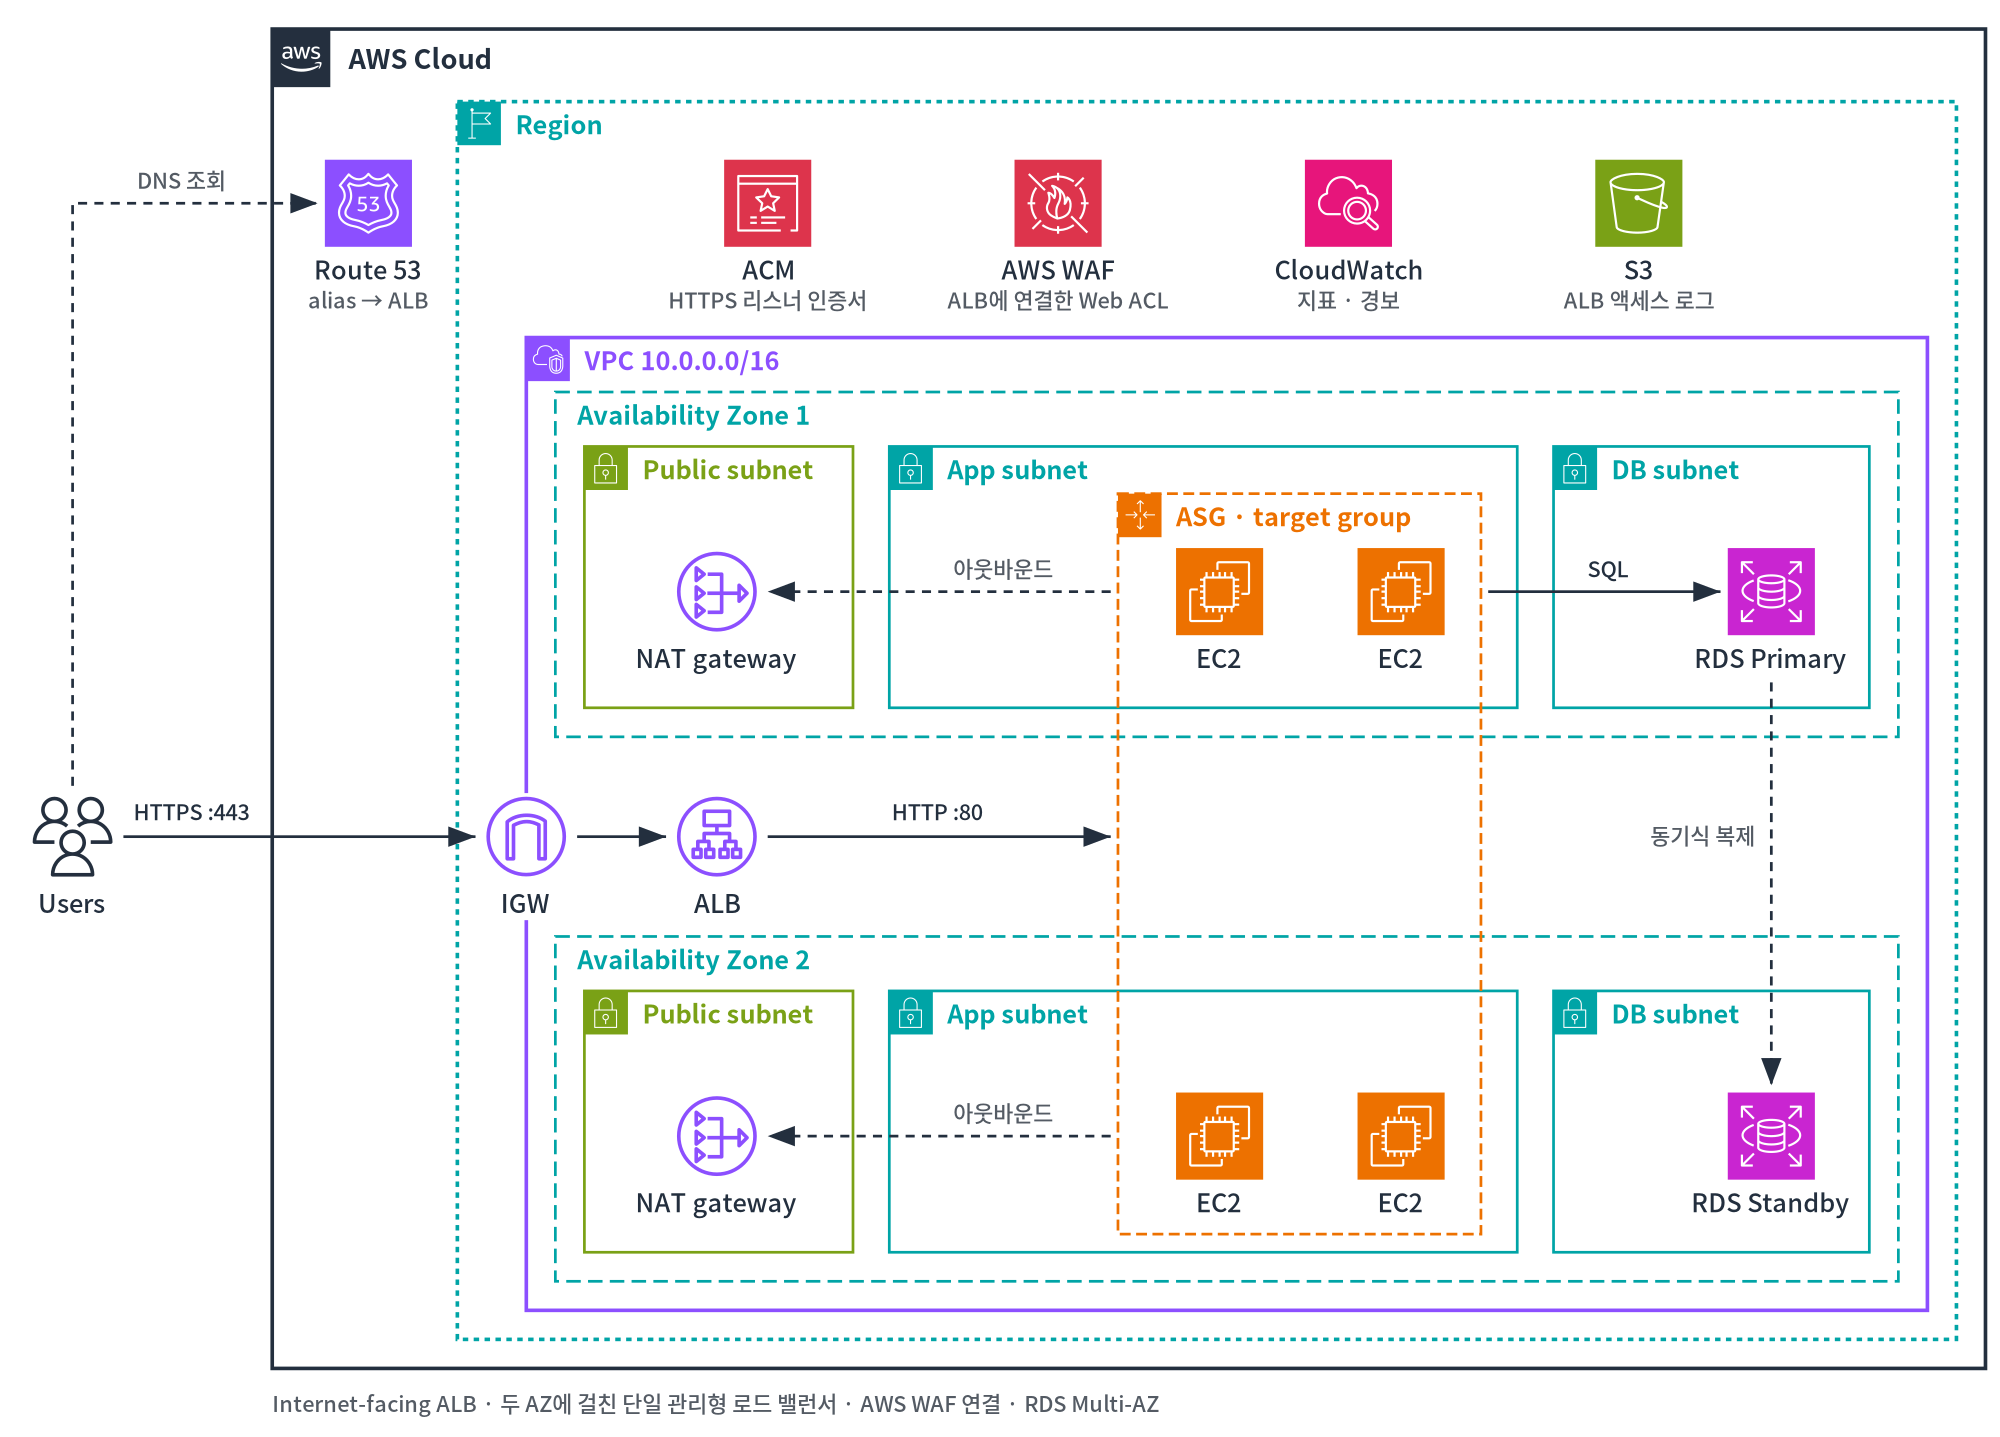
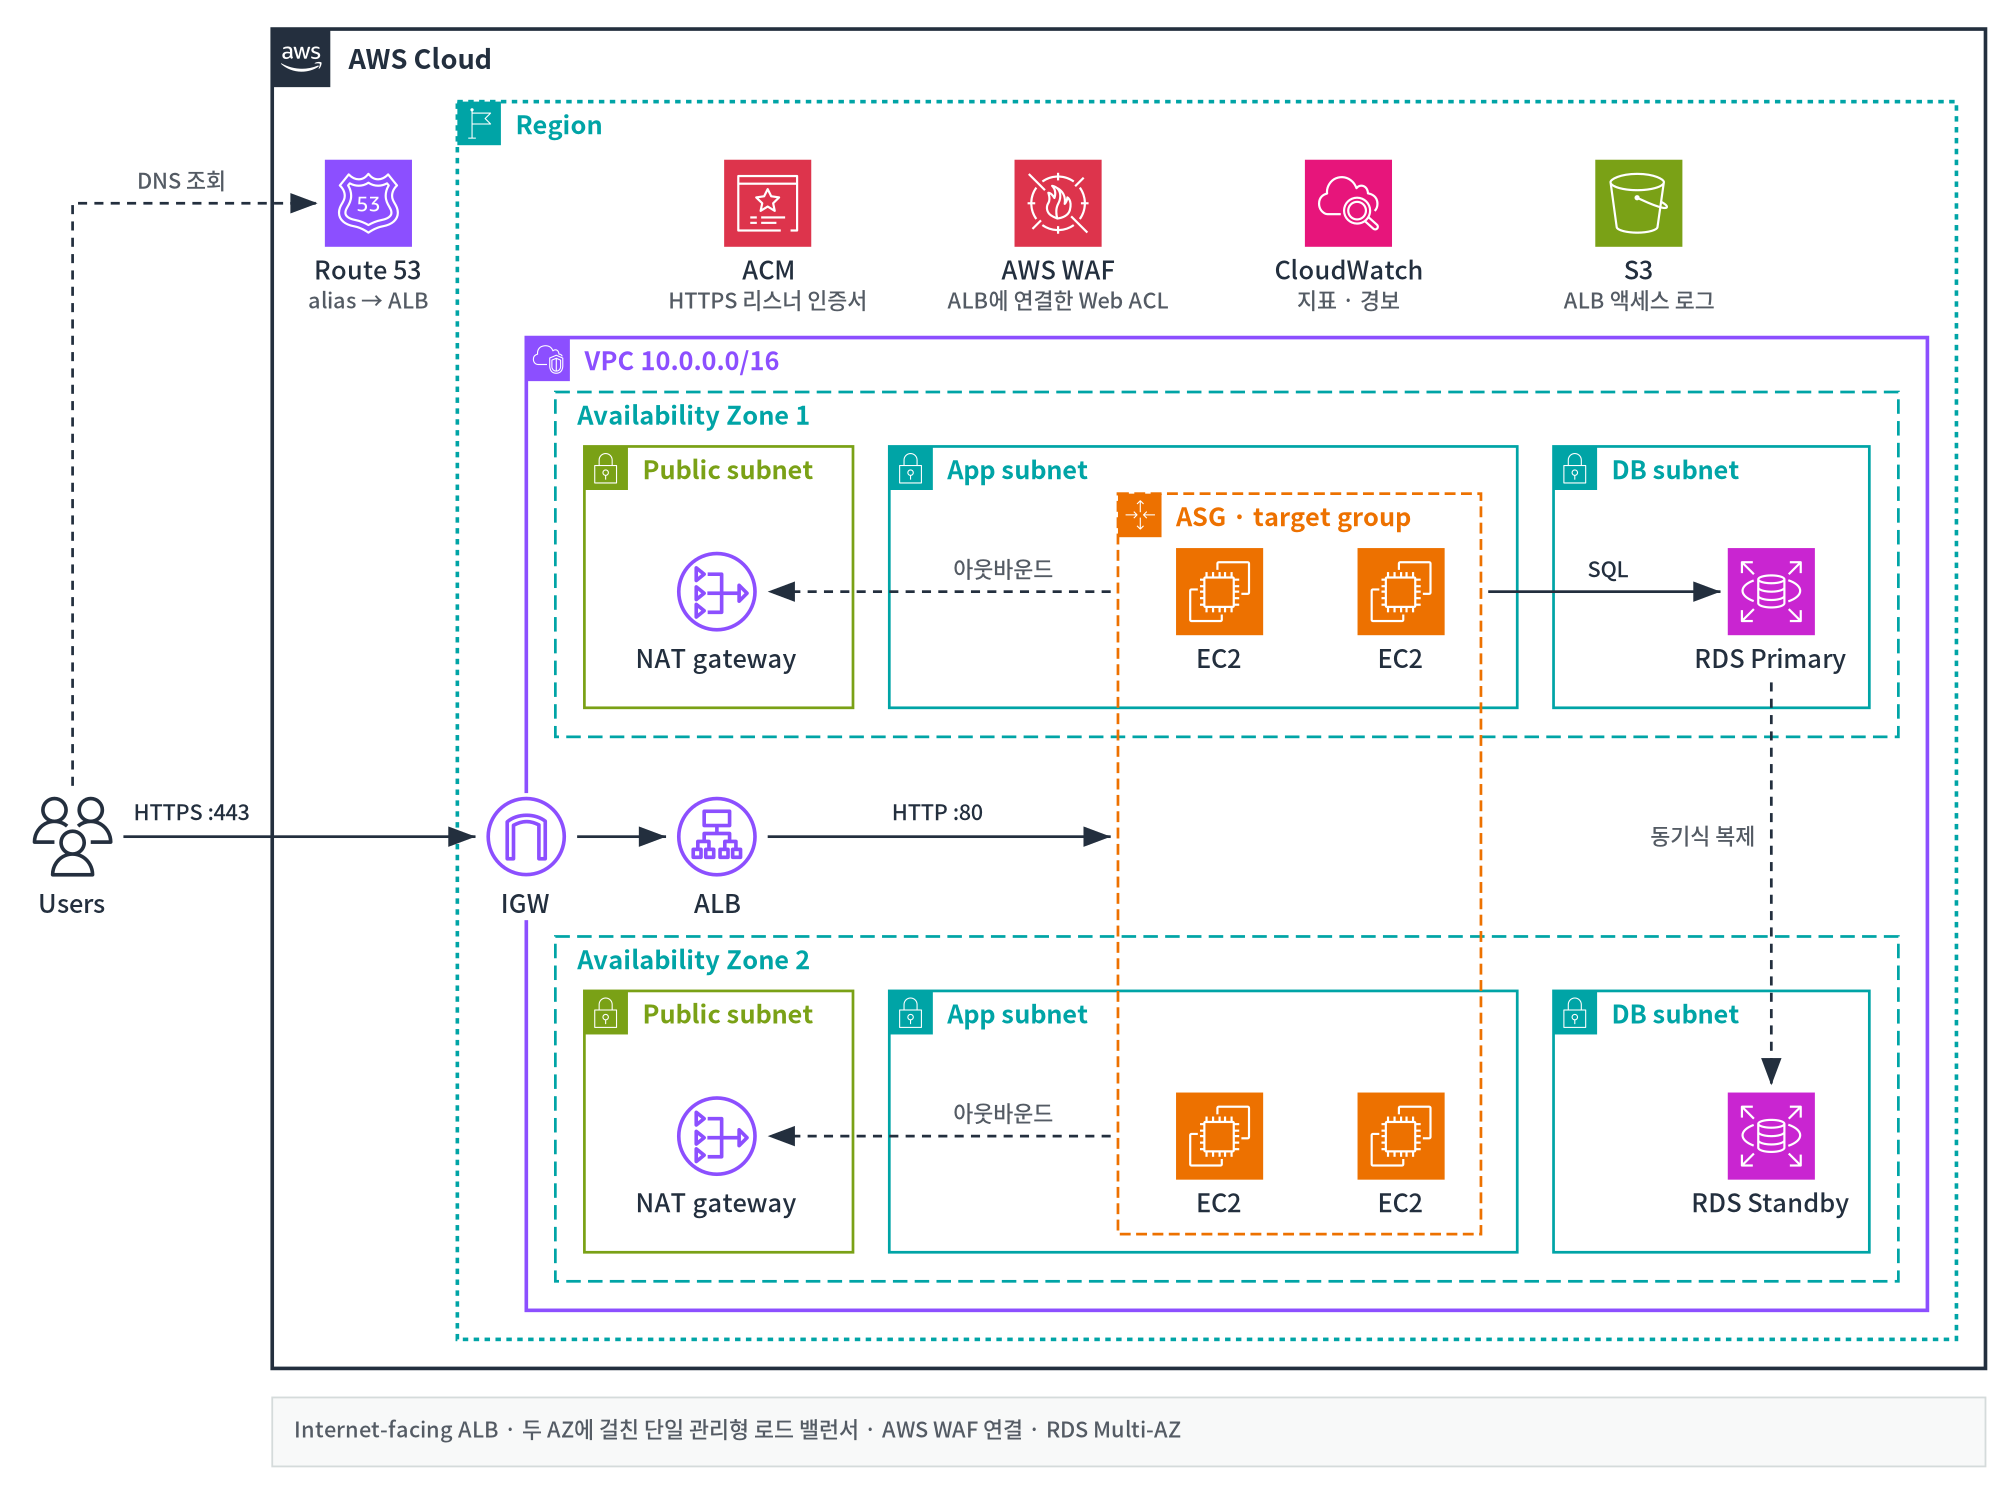
Put every document note, step legends included, in the same note panel, below the AWS Cloud at its width when no empty corner can hold it

diff --git a/references/diagram_guide.md b/references/diagram_guide.md
@@ -523,8 +523,8 @@ a target group spanning the AZs with a zonal EC2 instance in each (it is
 - **Room outside the AWS Cloud.** Users/clients sit outside the AWS Cloud box; leave
   enough space between them and the Cloud border (≈80px at 12px) for the connector's
   protocol label to sit clear of the Cloud and Region borders.
-- **Note line.** The note goes **below the diagram, outside the AWS Cloud box** (or in a
-  note panel, see below),
+- **Note line.** The note goes **below the diagram, outside the AWS Cloud box** — in a
+  document always inside a note panel (see below) —
   left-aligned with the **AWS Cloud box's left edge** (its bottom-left corner) — the
   same x in every diagram, even when Users or an on-premises box sit left of the
   Cloud — 8px or more below the Cloud's bottom border, 12px, never inside a
@@ -535,28 +535,31 @@ a target group spanning the AZs with a zonal EC2 instance in each (it is
   routes may be said once ("방화벽 · NAT 경로는 같은 AZ"). On a slide the note counts
   toward the canvas height (≤ 540); the Region's bottom padding may shrink to 8px to
   make room.
-- **Note panel.** When the canvas already has an empty area big enough for the note —
-  typically outside the AWS Cloud, under Users or an on-premises box that sit left of
-  it — put the note there in a panel instead of below the Cloud, so the canvas doesn't
-  grow and the empty corner is used. The panel is a square rect, `fill="#F8F9F9"`,
-  `stroke="#D5DBDB"` 1px, with no badge and no header label (it must not read as an
-  AWS group). Line it up with the diagram: left edge on the box above it (or the canvas
-  margin), bottom edge on the AWS Cloud's bottom border, at least 16px from any other
-  element, 12px padding inside. Content is a label column — bold 12px `#232F3E`
-  ("Hub & spoke", "VPC 서브넷 RT", "TGW A RT") — and a text column, 12px `#545B64`, that
-  starts at one x for every row (16px right of the widest label); a row that is too
-  long wraps in the text column, 16px line pitch, 22px between rows. Without such an
-  area, the note goes below the Cloud as above. Step legends stay below the Cloud,
-  where the rows can run the full width.
+- **Note panel.** In a document every note — step legend, summary, routes — sits in
+  one note panel: a square rect, `fill="#F8F9F9"`, `stroke="#D5DBDB"` 1px, with no
+  badge and no header label (it must not read as an AWS group), 12px padding inside.
+  - **Below the Cloud** (the default): the panel has the AWS Cloud box's x and width
+    and starts 16px below its bottom border; the canvas ends 16px below the panel.
+    Every row starts at `cloud.x + 12`, so the step badges sit at `cx = cloud.x + 22`.
+  - **In an empty corner:** when an area outside the Cloud can hold the note —
+    typically under Users or an on-premises box left of it — put the panel there
+    instead, so the canvas doesn't grow: left edge on the box above it (or the canvas
+    margin), bottom edge on the Cloud's bottom border, ≥16px from any other element.
+    Such a note uses a label column — bold 12px `#232F3E` ("Hub & spoke", "TGW A RT")
+    — and a text column, 12px `#545B64`, starting at one x for every row (16px right of
+    the widest label); a long row wraps in the text column, 16px line pitch, 22px
+    between rows. Step legends need the full width and stay below the Cloud.
+  - **Slide:** use the panel only if the canvas still fits in 540; otherwise the note
+    is the plain, frameless lines below the Cloud described above.
 
 - **Step legend.** A diagram with step badges explains them in the note with the
   **same badge** the diagram uses — a 10px-radius squid-ink `#232F3E` circle with the
   white bold 12px number — never a circled-digit glyph (①) or a bare "1.". Each item
   is the badge followed by its text: 12px, `#545B64`, `text-anchor="start"`, starting
   8px right of the badge (`x = cx + 18`), baseline at `cy + 4`. Everything is
-  left-aligned on the note's left edge, the AWS Cloud's x (badge `cx = cloud.x + 10`,
-  hop text at `cloud.x + 28`, plain lines at `cloud.x`); never center the
-  legend or put it in a frame.
+  left-aligned on the note's left edge — the AWS Cloud's x, plus the panel's 12px
+  padding in a document (badge `cx = left + 10`, hop text at `left + 28`, plain lines
+  at `left`); never center the legend.
   - **Document:** one step per row, rows 24px apart, in step order. Each row is the
     badge, the hop in bold (`font-weight="600"`, `#232F3E`, e.g. "TGW ENI → 방화벽"),
     and a description column that starts at one x for every row (16px right of the
@@ -580,7 +583,7 @@ a target group spanning the AZs with a zonal EC2 instance in each (it is
     row 24px below at the same left edge rather than shrinking the text.
 
   ```svg
-  <!-- step legend (document), AWS Cloud at x=16: same badges as the diagram, bold hop, aligned description column -->
+  <!-- step legend inside a note panel whose rows start at x=16: same badges as the diagram, bold hop, aligned description column -->
   <circle cx="26" cy="660" r="10" fill="#232F3E"/><text x="26" y="664" font-size="12" font-weight="700" text-anchor="middle" fill="#FFFFFF">1</text>
   <text x="44" y="664" font-size="12" font-weight="600" fill="#232F3E">IGW → GWLBe</text><text x="168" y="664" font-size="12" fill="#545B64">IGW 엣지 RT가 App 서브넷 CIDR을 같은 AZ의 GWLBe로 보내, 들어오는 트래픽이 EC2보다 먼저 검사 경로로 갑니다.</text>
   <circle cx="26" cy="684" r="10" fill="#232F3E"/><text x="26" y="688" font-size="12" font-weight="700" text-anchor="middle" fill="#FFFFFF">2</text>

diff --git a/SKILL.md b/SKILL.md
@@ -272,9 +272,10 @@ and balance, whitespace and readability still need eyes. Go through this checkli
       route captions include return routes; global services (Route 53, CloudFront)
       are outside the Region; captions don't credit a service with another's job;
       identical per-AZ hops are drawn identically.
-- [ ] The note (legend / routes) is below the diagram, outside the AWS Cloud box,
-      left-aligned with the Cloud box's left edge — or, when an empty area outside the
-      Cloud can hold it, in a note panel there (label column + text column).
+- [ ] The note (legend / routes) is outside the AWS Cloud box. In a document it is in
+      a note panel — below the Cloud with the Cloud's x and width, or in an empty
+      corner outside the Cloud that can hold it; on a slide, a panel only if the canvas
+      stays ≤ 540, else plain lines left-aligned with the Cloud.
 - [ ] `check_layout.py` prints "Layout OK" and `export.py` exits 0.
 
 Save the outputs where the user asked (in a repo, usually next to the docs that
